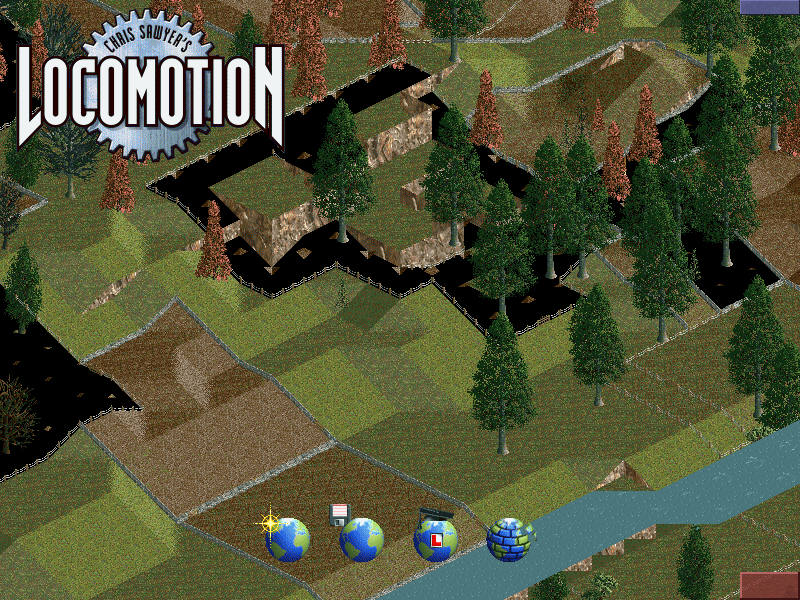
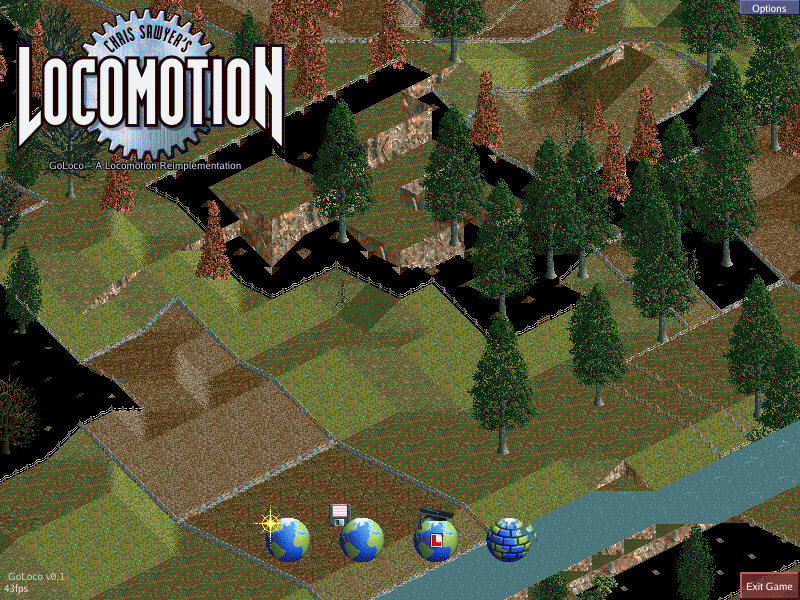
feat: per-tile flat-terrain variation + embedded font fallback
- world: fully-grown flat tiles with a non-zero variation byte draw the
  dedicated variation image (mapPixelImage + 3 + variation) instead of
  repeating the plain flat sprite, matching PaintSurface.cpp. Breaks up
  the uniform texture repetition on open grassland.
- ui: fall back to the Go fonts embedded in golang.org/x/image when the
  OpenTTD TTFs are absent. Previously every DrawText call silently
  no-opped without ../fonts, so the UI rendered no text at all.

diff --git a/pkg/ui/font.go b/pkg/ui/font.go
@@ -9,6 +9,8 @@ import (
 	"github.com/hajimehoshi/ebiten/v2"
 	"github.com/hajimehoshi/ebiten/v2/text/v2"
 	"golang.org/x/image/font"
+	"golang.org/x/image/font/gofont/gobold"
+	"golang.org/x/image/font/gofont/goregular"
 	"golang.org/x/image/font/opentype"
 )
 
@@ -33,11 +35,14 @@ var globalFontManager *FontManager
 func InitFonts(fontDir string) (*FontManager, error) {
 	fm := &FontManager{}
 
-	// Load regular font (using Small variant for compact UI text)
+	// Load regular font (using Small variant for compact UI text).
+	// When the OpenTTD fonts are not installed, fall back to the Go fonts
+	// embedded in golang.org/x/image so UI text always renders.
 	regularPath := fontDir + "/OpenTTD-Small.ttf"
 	regularData, err := os.ReadFile(regularPath)
 	if err != nil {
-		return nil, err
+		log.Printf("[Font] %v — using embedded Go fonts", err)
+		return initEmbeddedFonts(fm)
 	}
 
 	regularTTF, err := opentype.Parse(regularData)
@@ -119,6 +124,42 @@ func InitFonts(fontDir string) (*FontManager, error) {
 
 	globalFontManager = fm
 	log.Println("[Font] Loaded OpenTTD fonts successfully")
+	return fm, nil
+}
+
+// initEmbeddedFonts fills fm from the Go fonts compiled into the binary
+// (golang.org/x/image/font/gofont). Used when no OpenTTD TTFs are on disk.
+func initEmbeddedFonts(fm *FontManager) (*FontManager, error) {
+	const dpi = 72
+	const size = 10
+
+	load := func(data []byte) (*text.GoTextFace, font.Face, error) {
+		ttf, err := opentype.Parse(data)
+		if err != nil {
+			return nil, nil, err
+		}
+		face, err := opentype.NewFace(ttf, &opentype.FaceOptions{Size: size, DPI: dpi, Hinting: font.HintingFull})
+		if err != nil {
+			return nil, nil, err
+		}
+		src, err := text.NewGoTextFaceSource(bytes.NewReader(data))
+		if err != nil {
+			return nil, nil, err
+		}
+		return &text.GoTextFace{Source: src, Size: size}, face, nil
+	}
+
+	var err error
+	fm.Regular, fm.RegularFace, err = load(goregular.TTF)
+	if err != nil {
+		return nil, err
+	}
+	fm.Bold, fm.BoldFace, err = load(gobold.TTF)
+	if err != nil {
+		fm.Bold, fm.BoldFace = fm.Regular, fm.RegularFace
+	}
+	globalFontManager = fm
+	log.Println("[Font] Loaded embedded Go fonts")
 	return fm, nil
 }
 

diff --git a/pkg/world/world.go b/pkg/world/world.go
@@ -42,6 +42,7 @@ type tile struct {
 	slope        uint8 // slope corners and flags from byte 4 of surface element
 	waterLevel   uint8 // water level from surface element byte 5 bits [4:0]; 0 = no water
 	growthStage  uint8 // terrain growth/season stage 0-7 (byte 6 bits [7:5]); selects sprite set
+	variation    uint8 // per-tile flat-grass variation (byte 7); 0 = plain flat image
 	trees        []scenario.TreeElement
 	buildings    []scenario.BuildingElement
 	walls        []scenario.WallElement
@@ -221,6 +222,7 @@ func (w *World) LoadFromScenario(sc *scenario.Scenario) {
 				slope:        st.Slope,
 				waterLevel:   st.Water,
 				growthStage:  st.GrowthStage,
+				variation:    st.Variation,
 				trees:        st.Trees,
 				buildings:    st.Buildings,
 				walls:        st.Walls,
@@ -2398,6 +2400,15 @@ func (w *World) Draw(screen *ebiten.Image) {
 					//   imageIndex = image + variation + displaySlope
 					spriteIdx := land.GetFlatTerrainSpriteIndex() +
 						int(t.growthStage)*int(land.NumImagesPerGrowthStage) + displaySlope
+					// Fully-grown flat tiles with a non-zero per-tile variation
+					// draw one of the dedicated variation images instead of the
+					// plain flat image, breaking up texture repetition.
+					// OpenLoco reference: Paint/PaintSurface.cpp ~0x00465E92
+					//   image = mapPixelImage + 3 + variation
+					if t.variation != 0 && displaySlope == 0 && t.waterLevel == 0 &&
+						land.NumGrowthStages > 0 && t.growthStage == land.NumGrowthStages-1 {
+						spriteIdx = int(land.MapPixelImage-land.ImageOffset) + 3 + int(t.variation)
+					}
 
 					if img := w.renderer.GetObjectSprite(land, spriteIdx); img != nil {
 						_, _, xOff, yOff, ok := w.renderer.GetObjectSpriteInfo(land, spriteIdx)
